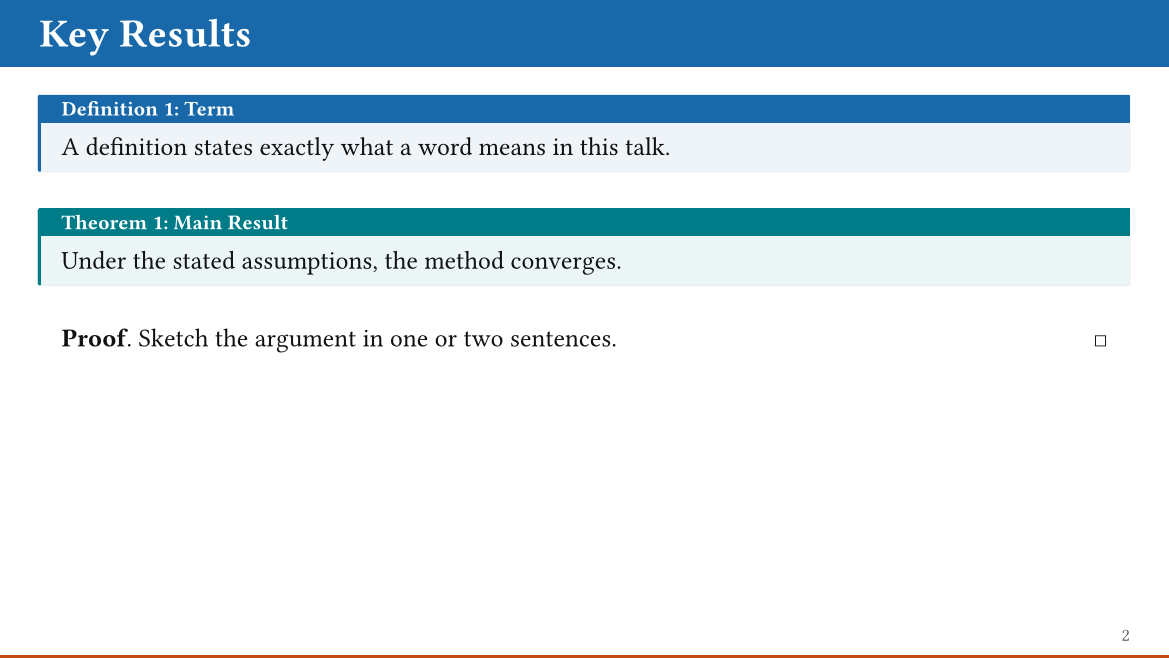
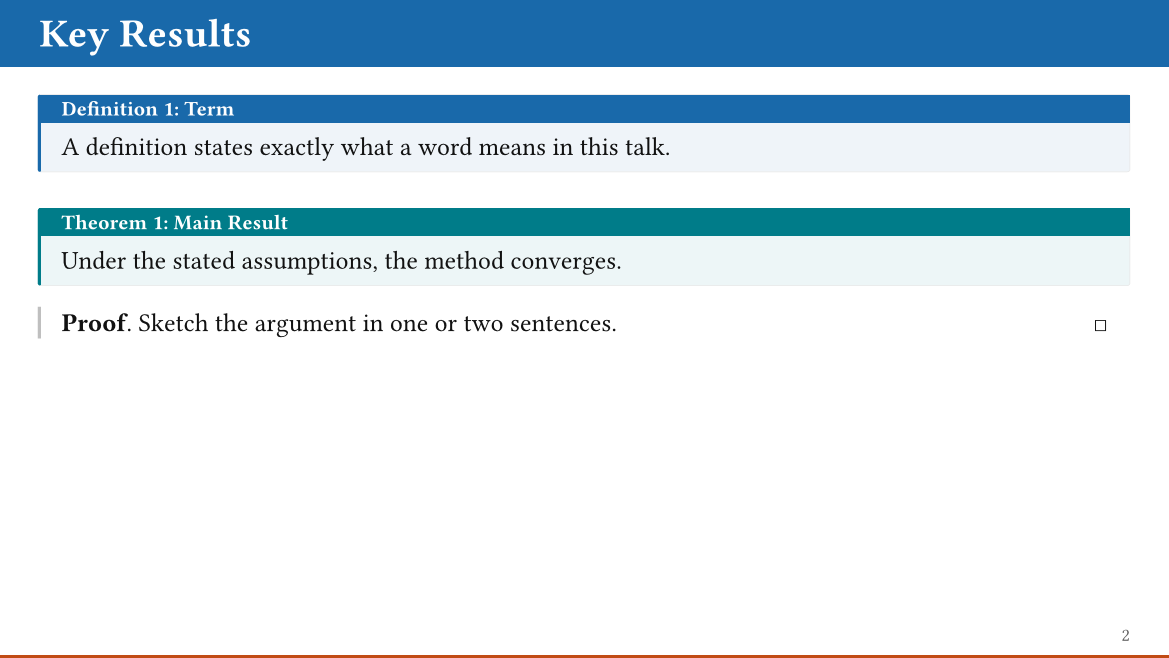
feat: plain frame style, custom environments, and back links
show-monash-frames gains style: "plain", extra: for environments made with
monash-frame, and backlinks: (on by default), which lists on each frame the
other slides that refer to it as links back. A single frame can be left
unnumbered with numbered: false. Exercise frames are purple and warning
frames red; a proof has a grey rule at the left and puts its end mark on the
line of a closing display equation. CI actions are updated to v7.

Changed region(s): [[0.0308, 0.4559, 0.5235, 0.5471]]

diff --git a/README.md b/README.md
@@ -162,6 +162,53 @@ With `shared-counter: true`, definitions, theorems, lemmas, corollaries,
 propositions, and assumptions share one counter; examples and exercises keep
 their own.
 
+To leave one frame without a number, for example a classical result you
+quote, pass `numbered: false`. It does not take a number from the others:
+
+```typst
+#theorem(numbered: false)[Bolzano–Weierstrass][Every bounded sequence ..]
+```
+
+A proof that ends with a display equation has its end mark on the line of
+that equation.
+
+### Frame style
+
+Frames have a coloured header bar by default. `style: "plain"` is lighter:
+a rule at the left and the name in colour at the start of the text, which
+suits slides with several statements.
+
+```typst
+#show: show-monash-frames.with(style: "plain")
+```
+
+### Your own environments
+
+`monash-frame` makes an environment in the same style. List it in `extra`
+to activate it:
+
+```typst
+#let claim = monash-frame("Claim", color: monash-teal)
+#let conjecture = monash-frame("Conjecture", numbered: false)
+#show: show-monash-frames.with(extra: (claim, conjecture))
+
+#claim[Every bounded sequence has a convergent subsequence.] <claim-bw>
+```
+
+Each has its own counter and can be labelled and referenced like the
+built-in ones.
+
+### Back links
+
+A reference such as `@banach` is a link to the frame. The frame in turn
+lists the other slides that refer to it (↩ 12, 30), each a link back, so
+during a talk you can jump to a statement and return to where you were.
+Turn this off with `backlinks: false`; references then link one way only.
+
+```typst
+#show: show-monash-frames.with(backlinks: false)
+```
+
 ### Labels
 
 To rename an environment, or to use another language, pass `labels`:
@@ -298,7 +345,7 @@ The package exports exactly these names (checked by `tests/api.typ`):
 
 - Theme and slides: `monash-theme`, `title-slide`, `outline-slide`, `slide`,
   `new-section-slide`, `focus-slide`, `ending-slide`.
-- Environments: `show-monash-frames`, `monash-frame-style`, `definition`,
+- Environments: `show-monash-frames`, `monash-frame`, `monash-frame-style`, `definition`,
   `theorem`, `lemma`, `corollary`, `proposition`, `assumption`, `example`,
   `exercise`, `remark`, `note`, `warning`, `proof`.
 - Design: `monash-accent-rule` and the colours `monash-blue`,

diff --git a/CHANGELOG.md b/CHANGELOG.md
@@ -12,9 +12,21 @@ No breaking changes. Decks written for 1.0.0 compile unchanged.
   `(name: .., affiliation: ..)` dictionaries, and `institution` an array.
   The title slide numbers the institutions and marks each name.
 - Option `math-font`.
+- `show-monash-frames(style: "plain")`: a lighter frame with a rule at the
+  left and the name in colour, without a header bar.
+- `monash-frame` makes your own environments, activated with
+  `show-monash-frames(extra: ..)`.
+- `numbered: false` on a single frame, such as
+  `#theorem(numbered: false)[..]`.
+- Back links: a frame lists the other slides that refer to it, each a link
+  back. Turn off with `show-monash-frames(backlinks: false)`.
 
 ### Changed
 
+- `exercise` frames are purple and `warning` frames red, so that they differ
+  from `example` and read as a warning.
+- A proof has a grey rule at the left, in line with the frames, and its end
+  mark sits on the line of a closing display equation.
 - `ending-slide(title:)` defaults to `auto` instead of the text "Thank you";
   the slide looks the same in an English deck.
 
